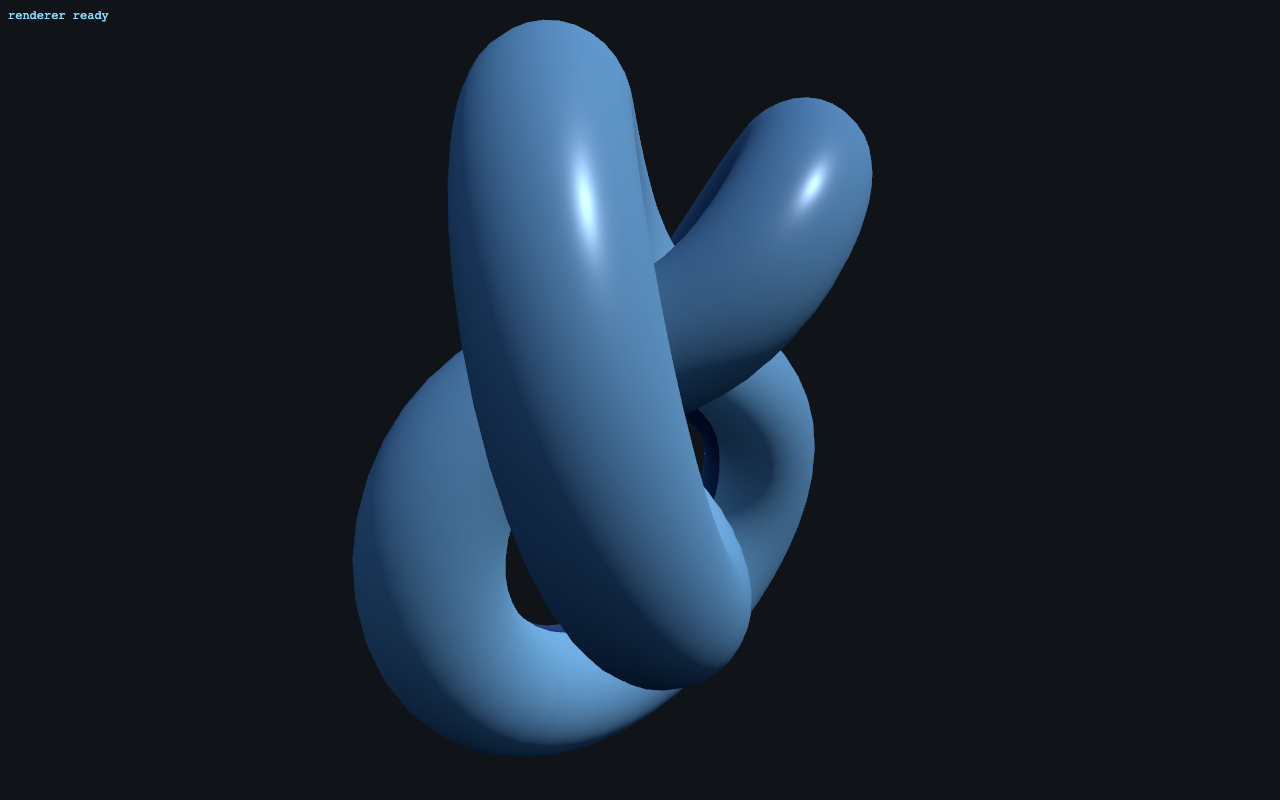
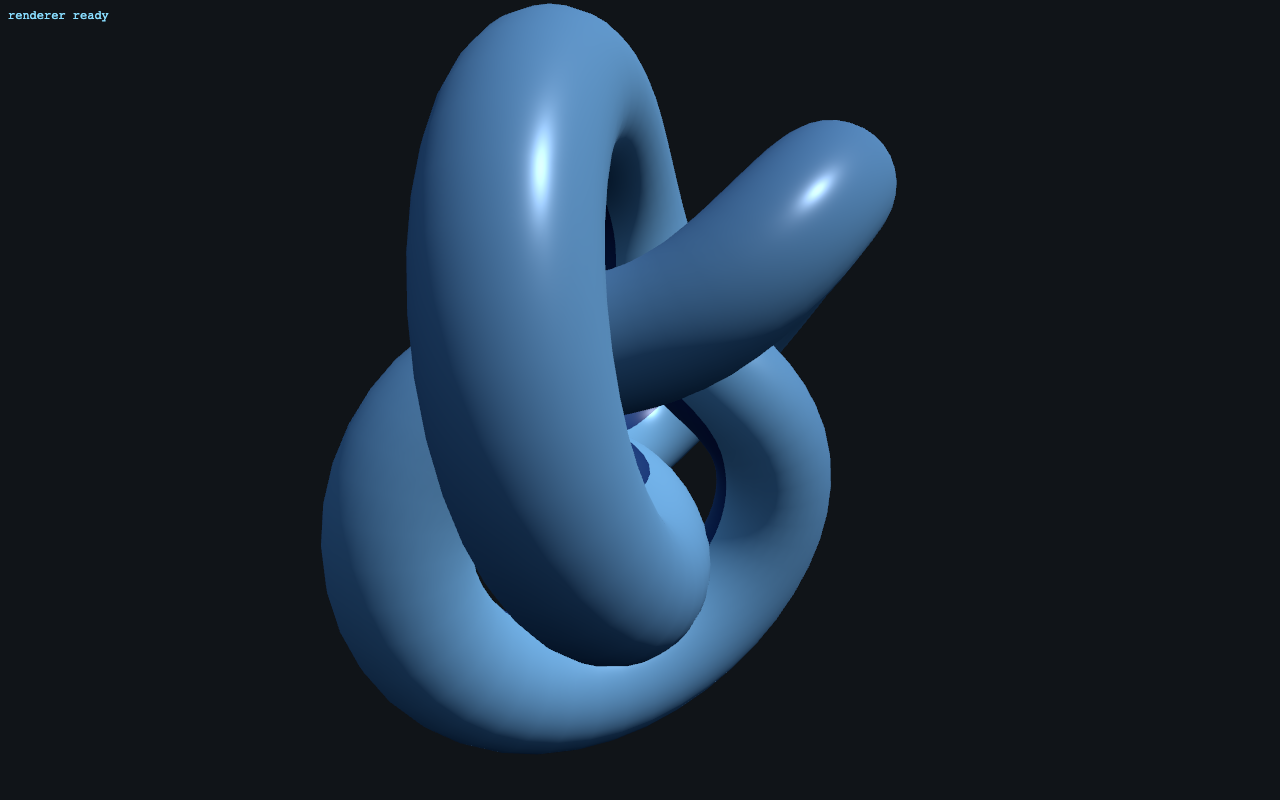
chore(examples): wire live-render capture across debug harnesses
Pass render context through batch e2e and debug examples, drop the local
webgpu-optimizer-report dependency, and refresh fresh-project smoke captures.

Changed region(s): [[0.25, 0.0, 0.7188, 0.9062], [0.4688, 0.9062, 0.5, 0.9375]]

diff --git a/packages/examples/compute-debug/src/shared.js b/packages/examples/compute-debug/src/shared.js
@@ -77,8 +77,7 @@ export async function runAux( renderer, scene, camera ) {
 	const auxResults = await precompileAuxiliary( renderer, scene, camera, {
 		devEndpoint: CAPTURE_ENDPOINT,
 		three: THREE,
-		threeVersion: String( THREE.REVISION ).match( /^\d+/ )[ 0 ],
-		pluginVersion: '0.0.0',
+		threeVersion: globalThis.__TSLP_THREE_PACKAGE_VERSION__ || String( THREE.REVISION ).match( /^\d+/ )[ 0 ],
 	} ).catch( ( err ) => {
 		console.warn( '[compute-debug] auxiliary capture failed:', err );
 		return [ { shape: 'aux', ok: false, error: err && err.message || String( err ) } ];

diff --git a/packages/examples/postprocessing-debug/src/shared.js b/packages/examples/postprocessing-debug/src/shared.js
@@ -193,8 +193,7 @@ export async function runPostProcessingDebugExample( { effect = 'passthrough', t
 	const auxResults = skipReplayAuxCapture ? [ { shape: 'replay', ok: true } ] : await precompileAuxiliary( renderer, scene, camera, {
 		devEndpoint: CAPTURE_ENDPOINT,
 		three: THREE_GPU,
-		threeVersion: String( THREE_GPU.REVISION ).match( /^\d+/ )[ 0 ],
-		pluginVersion: '0.0.0',
+		threeVersion: globalThis.__TSLP_THREE_PACKAGE_VERSION__ || String( THREE_GPU.REVISION ).match( /^\d+/ )[ 0 ],
 		postProcessing,
 		renderPipeline: postProcessing,
 	} ).catch( ( err ) => {

diff --git a/packages/examples/shadow-debug/src/shared.js b/packages/examples/shadow-debug/src/shared.js
@@ -216,8 +216,7 @@ export async function runShadowDebugExample( {
 	const auxResults = await precompileAuxiliary( renderer, scene, camera, {
 		devEndpoint: CAPTURE_ENDPOINT,
 		three: THREE,
-		threeVersion: String( THREE.REVISION ).match( /^\d+/ )[ 0 ],
-		pluginVersion: '0.0.0',
+		threeVersion: globalThis.__TSLP_THREE_PACKAGE_VERSION__ || String( THREE.REVISION ).match( /^\d+/ )[ 0 ],
 	} ).catch( ( err ) => {
 		console.warn( '[shadow-debug] auxiliary capture failed:', err );
 		return [ { shape: 'aux', ok: false, error: err && err.message || String( err ) } ];

diff --git a/packages/examples/pmrem-debug/src/shared.js b/packages/examples/pmrem-debug/src/shared.js
@@ -245,8 +245,7 @@ export async function runPMREMDebugExample( {
 	const auxResults = await precompileAuxiliary( renderer, scene, camera, {
 		devEndpoint: CAPTURE_ENDPOINT,
 		three: THREE,
-		threeVersion: String( THREE.REVISION ).match( /^\d+/ )[ 0 ],
-		pluginVersion: '0.0.0',
+		threeVersion: globalThis.__TSLP_THREE_PACKAGE_VERSION__ || String( THREE.REVISION ).match( /^\d+/ )[ 0 ],
 	} ).catch( ( err ) => {
 		console.warn( '[pmrem-debug] auxiliary capture failed:', err );
 		return [ { shape: 'aux', ok: false, error: err && err.message || String( err ) } ];

diff --git a/packages/examples/ocean/main.js b/packages/examples/ocean/main.js
@@ -187,8 +187,7 @@ folderClouds.add( sky.cloudElevation, 'value', 0, 1, 0.01 ).name( 'elevation' );
 precompileAuxiliary( renderer, scene, camera, {
 	devEndpoint: '/__tsl-precompile/capture',
 	three: THREE,
-	threeVersion: String( THREE.REVISION ).match( /^\d+/ )[ 0 ],
-	pluginVersion: '0.0.0',
+	threeVersion: globalThis.__TSLP_THREE_PACKAGE_VERSION__ || String( THREE.REVISION ).match( /^\d+/ )[ 0 ],
 } ).then( ( results ) => {
 
 	const summary = results.map( ( r ) => `${ r.shape }:${ r.ok ? 'ok' : 'err ' + r.error }` ).join( ', ' );

diff --git a/packages/examples/postprocessing-debug/src/variants.js b/packages/examples/postprocessing-debug/src/variants.js
@@ -107,8 +107,7 @@ async function ensurePipelineAux( renderer, scene, camera, postProcessing, name 
 	const results = await precompileAuxiliary( renderer, scene, camera, {
 		devEndpoint: CAPTURE_ENDPOINT,
 		three: THREE_GPU,
-		threeVersion: String( THREE_GPU.REVISION ).match( /^\d+/ )[ 0 ],
-		pluginVersion: '0.0.0',
+		threeVersion: globalThis.__TSLP_THREE_PACKAGE_VERSION__ || String( THREE_GPU.REVISION ).match( /^\d+/ )[ 0 ],
 		postProcessing,
 		postProcessingName: name,
 		renderPipeline: postProcessing,

diff --git a/packages/examples/mrt-debug/src/shared.js b/packages/examples/mrt-debug/src/shared.js
@@ -71,8 +71,7 @@ export async function runAux( renderer, scene, camera, extra = {} ) {
 	const auxResults = await precompileAuxiliary( renderer, scene, camera, {
 		devEndpoint: CAPTURE_ENDPOINT,
 		three: THREE_GPU,
-		threeVersion: String( THREE_GPU.REVISION ).match( /^\d+/ )[ 0 ],
-		pluginVersion: '0.0.0',
+		threeVersion: globalThis.__TSLP_THREE_PACKAGE_VERSION__ || String( THREE_GPU.REVISION ).match( /^\d+/ )[ 0 ],
 		...extra,
 	} ).catch( ( err ) => {
 

diff --git a/packages/examples/background/main.js b/packages/examples/background/main.js
@@ -104,8 +104,7 @@ scene.add( sphere );
 await precompileAuxiliary( renderer, scene, camera, {
 	devEndpoint: '/__tsl-precompile/capture',
 	three: THREE,
-	threeVersion: String( THREE.REVISION ).match( /^\d+/ )[ 0 ],
-	pluginVersion: '0.0.0',
+	threeVersion: globalThis.__TSLP_THREE_PACKAGE_VERSION__ || String( THREE.REVISION ).match( /^\d+/ )[ 0 ],
 } );
 setStatus( 'aux captured' );
 
